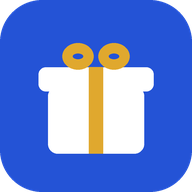
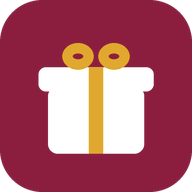
Бордовая цветовая гамма: стили, иконки, цвет темы
Claude-Session: https://claude.ai/code/session_01HeNq5GzViL8ooKtbMAH7NZ

diff --git a/style.css b/style.css
@@ -3,44 +3,44 @@
 @font-face{font-family:"Nord";src:local("Nord Medium"),local("Nord-Medium");font-weight:500;font-display:swap}
 @font-face{font-family:"Nord";src:local("Nord Bold"),local("Nord-Bold");font-weight:700;font-display:swap}
 :root{
-  --bg:#F2F5FA;
+  --bg:#F8F2F4;
   --surface:#FFFFFF;
-  --ink:#131A26;
-  --muted:#5C687A;
-  --faint:#A0AABA;
-  --line:#DCE3EE;
-  --accent:#2453D6;
+  --ink:#26141B;
+  --muted:#7A5D68;
+  --faint:#B9A3AC;
+  --line:#ECDDE3;
+  --accent:#8B1E3F;
   --accent-ink:#FFFFFF;
-  --accent-bg:#E5ECFC;
-  --ring:rgba(36,83,214,.2);
+  --accent-bg:#F6E2E9;
+  --ring:rgba(139,30,63,.2);
   --warn:#C8412B;
   --warn-bg:#FBE8E4;
   --gift:#9C6C00;
   --gift-bg:#FBF0D2;
   --good:#13875E;
   --good-bg:#DEF3EA;
-  --c1:#1A3FAE;--c1-bg:#E2E8F9;
-  --c2:#2C62E0;--c2-bg:#E3ECFC;
-  --c3:#2B87D3;--c3-bg:#E1F0FB;
-  --c4:#2E9DBA;--c4-bg:#DFF3F8;
-  --c5:#8796AD;--c5-bg:#ECEFF4;
-  --shadow:0 1px 2px rgba(19,26,38,.04),0 2px 10px rgba(19,26,38,.05);
-  --shadow-hover:0 2px 4px rgba(19,26,38,.06),0 10px 24px rgba(19,26,38,.09);
+  --c1:#6B1230;--c1-bg:#F2DCE4;
+  --c2:#8B1E3F;--c2-bg:#F6E2E9;
+  --c3:#A8324F;--c3-bg:#F9E5EB;
+  --c4:#A85A70;--c4-bg:#FAECF0;
+  --c5:#8A7880;--c5-bg:#F1ECEE;
+  --shadow:0 1px 2px rgba(38,20,27,.04),0 2px 10px rgba(38,20,27,.05);
+  --shadow-hover:0 2px 4px rgba(38,20,27,.06),0 10px 24px rgba(38,20,27,.09);
   --font:"Nord","Manrope",system-ui,-apple-system,"Segoe UI",Roboto,sans-serif;
 }
 @media (prefers-color-scheme: dark){:root:not([data-theme="light"]){
-  --bg:#0E131B;--surface:#151C27;--ink:#E5EBF5;--muted:#96A2B4;--faint:#556073;--line:#243042;
-  --accent:#7FA3FF;--accent-ink:#0A1430;--accent-bg:#1A2748;--ring:rgba(127,163,255,.25);
+  --bg:#170D12;--surface:#21141A;--ink:#F4E7EC;--muted:#B69CA6;--faint:#6F5662;--line:#3A2530;
+  --accent:#E8849F;--accent-ink:#2A0815;--accent-bg:#3D1828;--ring:rgba(232,132,159,.25);
   --warn:#FF8B74;--warn-bg:#3A221E;--gift:#F2C14E;--gift-bg:#352C11;--good:#6CCB9F;--good-bg:#163027;
-  --c1:#6C93FF;--c1-bg:#18244A;--c2:#82AAFF;--c2-bg:#192A4A;--c3:#78C0F5;--c3-bg:#142D42;
-  --c4:#79D4E8;--c4-bg:#12303A;--c5:#A1AEC2;--c5-bg:#212937;
+  --c1:#F27A9C;--c1-bg:#401627;--c2:#EC91AB;--c2-bg:#3B1A29;--c3:#E6A3B7;--c3-bg:#361F2A;
+  --c4:#DDB6C2;--c4-bg:#30232A;--c5:#B3A3AA;--c5-bg:#2A2227;
   --shadow:0 1px 2px rgba(0,0,0,.25);--shadow-hover:0 4px 16px rgba(0,0,0,.35);color-scheme:dark}}
 :root[data-theme="dark"]{
-  --bg:#0E131B;--surface:#151C27;--ink:#E5EBF5;--muted:#96A2B4;--faint:#556073;--line:#243042;
-  --accent:#7FA3FF;--accent-ink:#0A1430;--accent-bg:#1A2748;--ring:rgba(127,163,255,.25);
+  --bg:#170D12;--surface:#21141A;--ink:#F4E7EC;--muted:#B69CA6;--faint:#6F5662;--line:#3A2530;
+  --accent:#E8849F;--accent-ink:#2A0815;--accent-bg:#3D1828;--ring:rgba(232,132,159,.25);
   --warn:#FF8B74;--warn-bg:#3A221E;--gift:#F2C14E;--gift-bg:#352C11;--good:#6CCB9F;--good-bg:#163027;
-  --c1:#6C93FF;--c1-bg:#18244A;--c2:#82AAFF;--c2-bg:#192A4A;--c3:#78C0F5;--c3-bg:#142D42;
-  --c4:#79D4E8;--c4-bg:#12303A;--c5:#A1AEC2;--c5-bg:#212937;
+  --c1:#F27A9C;--c1-bg:#401627;--c2:#EC91AB;--c2-bg:#3B1A29;--c3:#E6A3B7;--c3-bg:#361F2A;
+  --c4:#DDB6C2;--c4-bg:#30232A;--c5:#B3A3AA;--c5-bg:#2A2227;
   --shadow:0 1px 2px rgba(0,0,0,.25);--shadow-hover:0 4px 16px rgba(0,0,0,.35);color-scheme:dark}
 .p1,.prio-1{--pc:var(--c1);--pc-bg:var(--c1-bg)}
 .p2,.prio-2{--pc:var(--c2);--pc-bg:var(--c2-bg)}

diff --git a/index.html b/index.html
@@ -7,8 +7,8 @@
 <meta name="description" content="Что мне подарить: список желаний со ссылками на магазины.">
 <meta property="og:title" content="Вишлист">
 <meta property="og:description" content="Что мне подарить: список желаний со ссылками на магазины.">
-<meta name="theme-color" content="#F2F5FA" media="(prefers-color-scheme: light)">
-<meta name="theme-color" content="#0E131B" media="(prefers-color-scheme: dark)">
+<meta name="theme-color" content="#F8F2F4" media="(prefers-color-scheme: light)">
+<meta name="theme-color" content="#170D12" media="(prefers-color-scheme: dark)">
 <link rel="icon" href="favicon.svg" type="image/svg+xml">
 <link rel="manifest" href="manifest.webmanifest">
 <link rel="apple-touch-icon" href="apple-touch-icon.png">
@@ -16,7 +16,7 @@
 <link rel="preconnect" href="https://fonts.googleapis.com">
 <link rel="preconnect" href="https://fonts.gstatic.com" crossorigin>
 <link rel="stylesheet" href="https://fonts.googleapis.com/css2?family=Manrope:wght@400;500;700&display=swap">
-<link rel="stylesheet" href="style.css?v=21">
+<link rel="stylesheet" href="style.css?v=22">
 </head>
 <body>
 <main id="app" class="page"><noscript>Для работы списка нужен JavaScript.</noscript></main>
